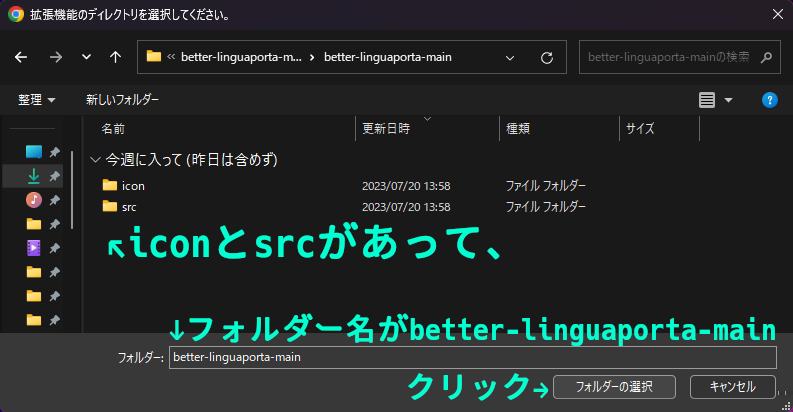
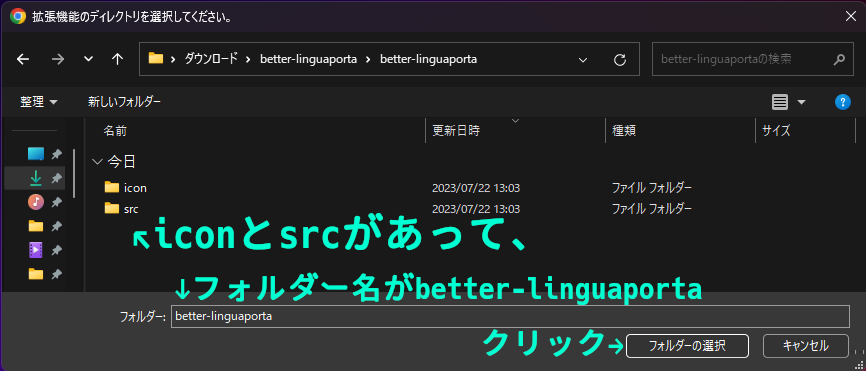
revise readme.md

diff --git a/readme.md b/readme.md
@@ -41,7 +41,7 @@ Chrome Extension for [LINGUAPORTA](https://w5.linguaporta.jp/user/seibido/index.
 
 ## How to Use
 ### 1. 拡張機能のファイル群をダウンロード
-1. [>>> ZIPファイルをダウンロード <<<](https://github.com/cykps/better-linguaporta/archive/refs/heads/main.zip)
+1. [ここ](https://github.com/cykps/better-linguaporta/releases)から最新の`better-linguaporta.zip`をダウンロード
 2. ダウンロードしたファイルは**展開**してください
 
 ### 2. Chromeに拡張機能を読み込ませる
